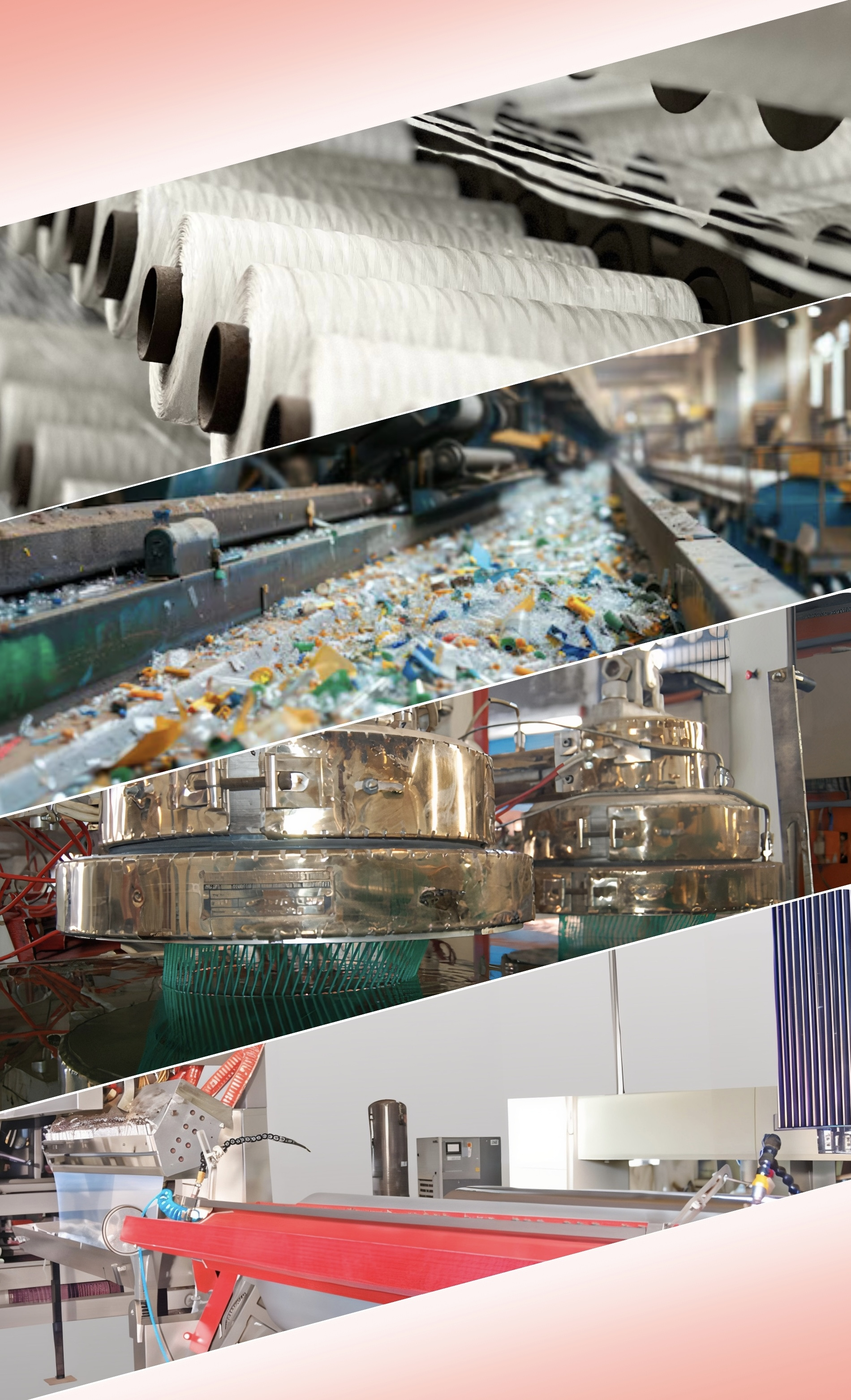
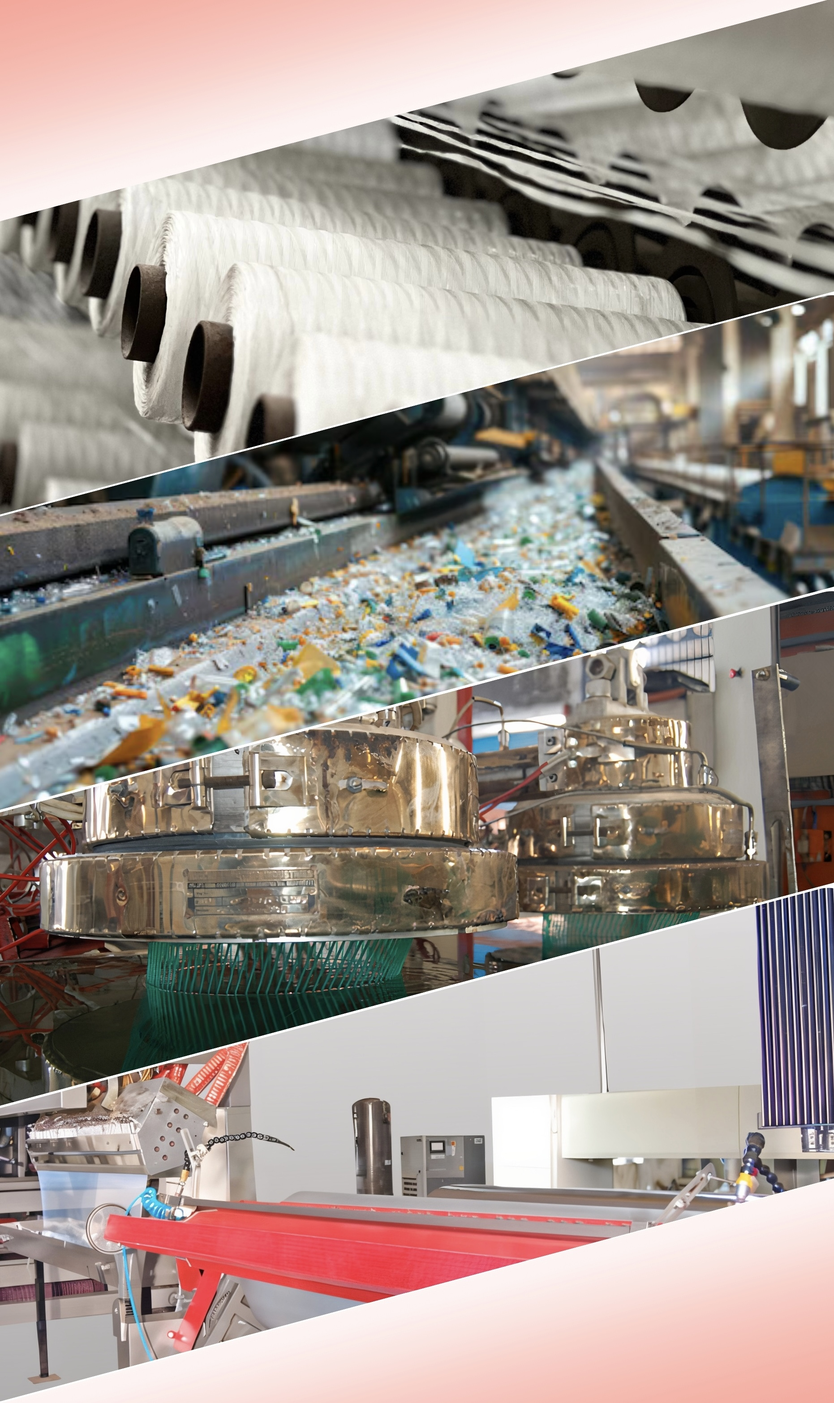
changes

diff --git a/src/Components/MachineRange.css b/src/Components/MachineRange.css
@@ -1,40 +1,81 @@
 /* Machinery Range Container */
 .machinery-range {
     text-align: left; /* Align text to the left */
-    padding: 50px; /* Add padding for content */
+     /* Add padding for content */
     color: #fff;
     position: relative;
     background-image: url("../assets/machinerange.jpg"); /* Full image as background */
-    background-size: cover;
+    background-size: contain; /* Ensure the entire image is visible */
     background-position: center;
     background-repeat: no-repeat;
-    height: 3600px; /* Increase height to fit content */
-   
+    height: 3600px; /* Adjust height to fit content */
     display: flex;
     flex-direction: column;
     justify-content: flex-start; /* Align content at the top */
   }
   
+  
   /* Title Styling */
   .machinery-title {
-    font-size: 50px;
+    font-size: 70px;
     font-weight: bold;
     margin-bottom: 30px;
     color: #fff;
-    text-shadow: 2px 2px 6px rgba(0, 0, 0, 0.8); /* Add shadow for better contrast */
+   
+    margin-top: 7%;
+    margin-left: 45px;
   }
   
   /* Sections Container */
   .machinery-sections {
     display: flex;
     flex-direction: column;
-    gap: 350px;
+    
   }
   
+/* First Title and Button */
+.machinery-section:nth-child(1) h2 {
+    margin-left: 30px;
+    margin-top: 180%;
+  }
+  
+  .machinery-section:nth-child(1) .button {
+    margin-left: 30px;
+  }
+  
+  /* Second Title and Button */
+  .machinery-section:nth-child(2) h2 {
+    margin-left: 30px;
+    margin-top: 120%;
+  }
+  
+  .machinery-section:nth-child(2) .button {
+    margin-left: 30px;
+  }
+  
+  /* Third Title and Button */
+  .machinery-section:nth-child(3) h2 {
+    margin-left: 30px;
+    margin-top: 110%;
+  }
+  
+  .machinery-section:nth-child(3) .button {
+    margin-left: 30px;
+  }
+  
+  /* Fourth Title and Button */
+  .machinery-section:nth-child(4) h2 {
+    margin-left: 30px;
+    margin-top: 105%;
+  }
+  
+  .machinery-section:nth-child(4) .button {
+    margin-left: 30px;
+  }
   /* Individual Section Styling */
   .machinery-section {
   /* Semi-transparent background for contrast */
-    margin-top: 37%;
+    
     padding: 15px;
     border-radius: 8px;
   
@@ -54,9 +95,9 @@
     color: #fff;
     background-color: #e74c3c;
     padding: 10px 20px;
-    border-radius: 20px;
+    border-radius: 30px;
     font-weight: bold;
-    font-size: 1rem;
+    font-size: 2rem;
     transition: background-color 0.3s ease;
   }
   
@@ -84,4 +125,48 @@
       padding: 8px 16px;
     }
   }
-  
+
+  .button {
+    width: 170px;
+    height: 60px;
+    display: flex;
+    align-items: center;
+    justify-content: flex-start;
+    gap: 10px;
+    background-color: rgb(255, 36, 36);
+    border-radius: 30px;
+    color: rgb(255, 255, 255);
+    font-weight: 800;
+    border: none;
+    position: relative;
+    cursor: pointer;
+    transition-duration: 0.2s;
+    box-shadow: 5px 5px 10px rgba(0, 0, 0, 0.116);
+    padding-left: 20px;
+    transition-duration: 0.5s;
+    font-size: 20px;
+  }
+
+  .svgIcon {
+    height: 30px;
+    transition-duration: 1.5s;
+  }
+
+  .bell path {
+    fill: rgb(255, 255, 255);
+  }
+
+  .button:hover {
+    background-color: rgb(255, 0, 0);
+    transition-duration: 0.5s;
+  }
+
+  .button:active {
+    transform: scale(0.97);
+    transition-duration: 0.2s;
+  }
+
+  .button:hover .svgIcon {
+    transform: rotate(250deg);
+    transition-duration: 1.5s;
+  };

diff --git a/src/Components/MachineRange.jsx b/src/Components/MachineRange.jsx
@@ -3,41 +3,44 @@ import "./MachineRange.css";
 import machinerange from "../assets/machinerange.jpg";
 
 const MachineRange = () => {
-    const sections = [
-      {
-        title: "Woven Packaging",
-        link: "/woven-packaging",
-      },
-      {
-        title: "Plastic Processing",
-        link: "/plastic-processing",
-      },
-      {
-        title: "Profile Extrusion",
-        link: "/profile-extrusion",
-      },
-      {
-        title: "Sheet/Film Extrusion",
-        link: "/sheet-film-extrusion",
-      },
-    ];
-  
-    return (
-      <div className="machinery-range">
-        <h1 className="machinery-title">Machinery Range</h1>
-        <div className="machinery-sections">
-          {sections.map((section, index) => (
-            <div key={index} className="machinery-section">
-              <div className="machinery-content">
-                <h2>{section.title}</h2>
-                <a href={section.link} className="explore-button">
-                  Explore
-                </a>
-              </div>
+  const sections = [
+    {
+      title: "Woven Packaging",
+      link: "/woven-packaging",
+    },
+    {
+      title: "Plastic Processing",
+      link: "/plastic-processing",
+    },
+    {
+      title: "Profile Extrusion",
+      link: "/profile-extrusion",
+    },
+    {
+      title: "Sheet/Film Extrusion",
+      link: "/sheet-film-extrusion",
+    },
+  ];
+
+  return (
+    <div className="machinery-range">
+      <h1 className="machinery-title">Machinery Range</h1>
+      <div className="machinery-sections">
+        {sections.map((section, index) => (
+          <div key={index} className="machinery-section">
+            <div className="machinery-content">
+              <h2>{section.title}</h2>
+              <button className="button">
+        <svg className="svgIcon" viewBox="0 0 512 512" height="1em" xmlns="http://www.w3.org/2000/svg">
+          <path d="M256 512A256 256 0 1 0 256 0a256 256 0 1 0 0 512zm50.7-186.9L162.4 380.6c-19.4 7.5-38.5-11.6-31-31l55.5-144.3c3.3-8.5 9.9-15.1 18.4-18.4l144.3-55.5c19.4-7.5 38.5 11.6 31 31L325.1 306.7c-3.2 8.5-9.9 15.1-18.4 18.4zM288 256a32 32 0 1 0 -64 0 32 32 0 1 0 64 0z" />
+        </svg>
+        Explore
+      </button>
             </div>
-          ))}
-        </div>
+          </div>
+        ))}
       </div>
-    );
-  };
+    </div>
+  );
+};
 export default MachineRange;
